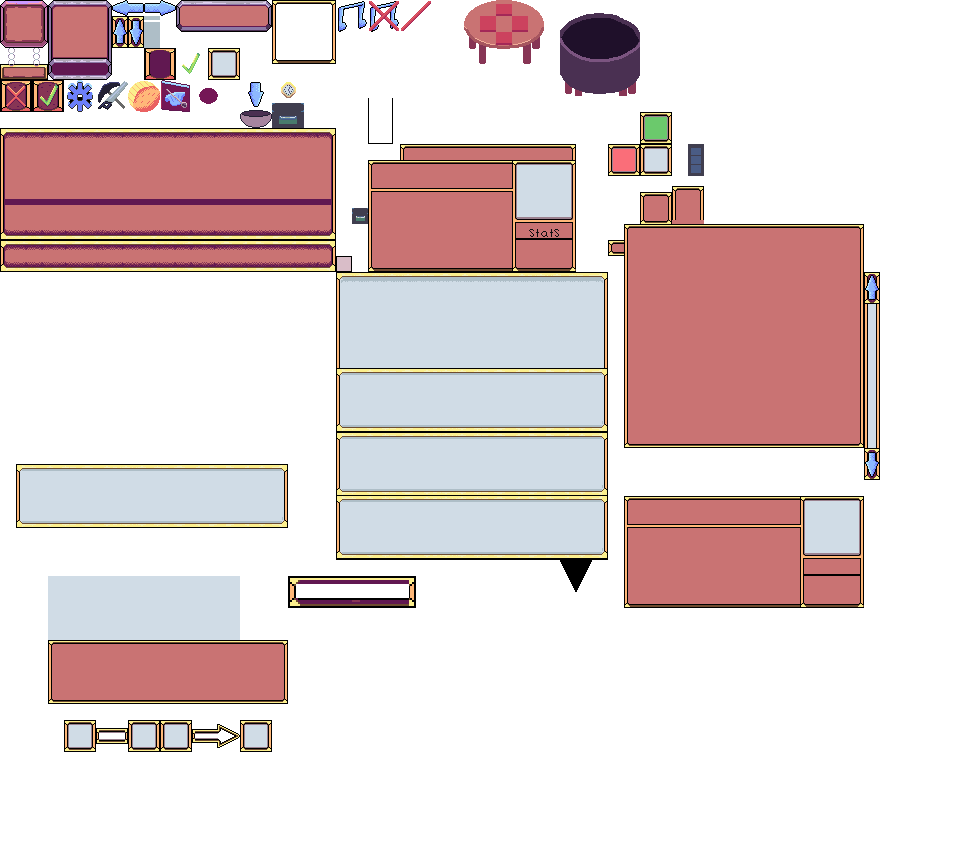
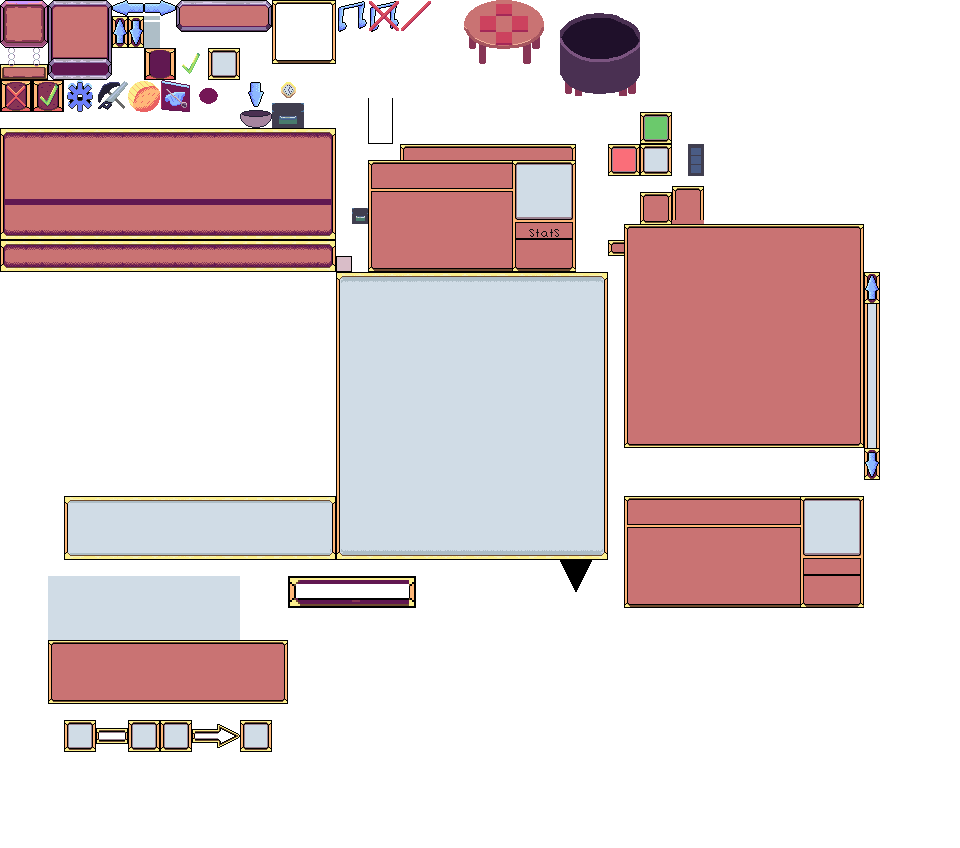
workin on dialogue

Changed region(s): [[0.0, 0.5212, 0.625, 0.6745], [0.3438, 0.4906, 0.6562, 0.5212], [0.3438, 0.4292, 0.625, 0.4599]]

diff --git a/UIEngine/Classes/TextStuff/TalkingWindow.cs b/UIEngine/Classes/TextStuff/TalkingWindow.cs
@@ -15,12 +15,13 @@ using System.Collections.Generic;
 using System.Text;
 using TextEngine;
 using TextEngine.Classes;
+using UIEngine.Classes.Components;
 using static DataModels.Enums;
 using static Globals.Classes.Settings;
 
 namespace UIEngine.Classes.TextStuff
 {
-    public class TalkingWindow : InterfaceSection
+    internal class TalkingWindow : MenuSection
     {
         private Rectangle _backgroundSourceRectangle = new Rectangle(336, 272, 272, 288);
         private Sprite BackdropSprite { get; set; }
@@ -32,24 +33,34 @@ namespace UIEngine.Classes.TextStuff
 
         private Vector2 _scale = new Vector2(2f, 2f);
 
-        internal List<DialogueInterfaceOptionWindow> OptionWindows { get; set; }
+        private StackPanel _stackPanel;
+
+        private Dialogue _curerentDialogue;
+
+        internal List<TalkingOptionPanel> OptionWindows { get; set; }
         public TalkingWindow(InterfaceSection interfaceSection, GraphicsDevice graphicsDevice, ContentManager content, Vector2? position, float layerDepth) :
            base(interfaceSection, graphicsDevice, content, position, layerDepth)
+        {
+            RegisterCommands();
+
+        }
+        public override void LoadContent()
         {
             Position = RectangleHelper.PlaceTopRightScreen(RectangleHelper.RectangleToScale(_backgroundSourceRectangle, _scale));
             Position = new Vector2(Position.X - Settings.Gutter, Position.Y + Settings.Gutter);
 
             BackdropSprite = SpriteFactory.CreateUISprite(Position, _backgroundSourceRectangle,
-                UI.ButtonTexture, GetLayeringDepth(UILayeringDepths.Back),scale :_scale);
-            TextBuilder = new TextBuilder(TextFactory.CreateUIText("Dialogue Test", GetLayeringDepth(UILayeringDepths.Front),.5f),
+                UI.ButtonTexture, GetLayeringDepth(UILayeringDepths.Back), scale: _scale);
+            TextBuilder = new TextBuilder(TextFactory.CreateUIText("Dialogue Test", GetLayeringDepth(UILayeringDepths.Front), .5f),
                 .05f);
             Deactivate();
 
 
             TotalBounds = BackdropSprite.HitBox;
-            RegisterCommands();
-        }
 
+            
+            base.LoadContent();
+        }
         public void RegisterCommands()
         {
             CommandConsole.RegisterCommand("talk", "displays given text as speech", AddSpeechCommand);
@@ -63,7 +74,7 @@ namespace UIEngine.Classes.TextStuff
                 totalString += " ";
                 totalString += arg;
             }
-            LoadNewConversation(totalString);
+          //  LoadNewConversation(totalString);
         }
 
         public override void Update(GameTime gameTime)
@@ -113,10 +124,25 @@ namespace UIEngine.Classes.TextStuff
         }
         public void LoadNewConversation(Dialogue dialogue)
         {
+
+            _curerentDialogue = dialogue;
             TextBuilder.ClearText();
-            TextBuilder.SetText(TextFactory.CreateUIText(dialogue.,  GetLayeringDepth(UILayeringDepths.Front), scale: 1f), BackdropSprite.HitBox.Width, false);
+            TextBuilder.SetText(TextFactory.CreateUIText(dialogue.DialogueText,  GetLayeringDepth(UILayeringDepths.Front), scale: 1f), BackdropSprite.HitBox.Width, false);
             Activate();
 
+            if (ChildSections.Contains(_stackPanel))
+                ChildSections.Remove(_stackPanel);
+
+            _stackPanel = new StackPanel(this, graphics, content, Position, GetLayeringDepth(UILayeringDepths.Medium));
+
+            foreach(var option in dialogue.Options)
+            {
+                StackRow stackRow = new StackRow((int)((float)_backgroundSourceRectangle.Width * _scale.X));
+                TalkingOptionPanel window = new TalkingOptionPanel(_stackPanel, graphics, content, Position, GetLayeringDepth(UILayeringDepths.Medium));
+                window.LoadNewOption(option.Value);
+                stackRow.AddItem(window, StackOrientation.Left);
+                _stackPanel.Add(stackRow);
+            }
             UI.DeactivateAllCurrentSectionsExcept(new List<InterfaceSection>() { this, UI.ClockBar });
         }
 

diff --git a/UIEngine/Classes/UI.cs b/UIEngine/Classes/UI.cs
@@ -31,6 +31,7 @@ using Globals.Classes.Time;
 using TextEngine;
 using ItemEngine.Classes.StorageStuff;
 using UIEngine.Classes.StatusStuff;
+using DataModels.DialogueStuff;
 
 namespace UIEngine.Classes
 {
@@ -81,7 +82,7 @@ namespace UIEngine.Classes
         private static List<InterfaceSection> s_standardSections { get; set; }
         private static List<InterfaceSection> s_mainMenuSections { get; set; }
 
-        public static TalkingWindow TalkingWindow { get; set; }
+        private static TalkingWindow _talkingWindow { get; set; }
 
         internal static SettingsMenu SettingsMenu { get; set; }
         internal static ToolBar ToolBar { get; set; }
@@ -125,12 +126,12 @@ namespace UIEngine.Classes
             EscMenu = new EscMenu(null, graphics, content, null, GetLayeringDepth(UILayeringDepths.Medium));
             RecipeBook = new RecipeBook(null, graphics, content, null, GetLayeringDepth(UILayeringDepths.High));
 
-            TalkingWindow = new TalkingWindow(null, graphics, content, null, GetLayeringDepth(UILayeringDepths.High));
+            _talkingWindow = new TalkingWindow(null, graphics, content, null, GetLayeringDepth(UILayeringDepths.High));
             SettingsMenu = new SettingsMenu(null, graphics, content, null, GetLayeringDepth(UILayeringDepths.Front));
             Curtain = new Curtain(null, graphics, content, null, GetLayeringDepth(UILayeringDepths.Front));
             StorageDisplayHandler = new StorageDisplayHandler(null, graphics, content, null, GetLayeringDepth(UILayeringDepths.High));
             
-            s_standardSections = new List<InterfaceSection>() { ToolBar, ClockBar,StatusPanel, TalkingWindow,
+            s_standardSections = new List<InterfaceSection>() { ToolBar, ClockBar,StatusPanel, _talkingWindow,
                 EscMenu, RecipeBook, StorageDisplayHandler };
 
             Cursor = new Cursor();
@@ -394,5 +395,12 @@ namespace UIEngine.Classes
 
             }));
         }
+
+
+        public static void LoadNewConversation(Dialogue dialogue) => _talkingWindow.LoadNewConversation(dialogue);
+        public static Direction TalkingDirection { get => _talkingWindow.DirectionPlayerShouldFace; set => _talkingWindow.DirectionPlayerShouldFace = value; }
+
+        public static bool IsTalkingWindowActive => _talkingWindow.IsActive;
+        public static bool WasTalkingWindowJustActivated => _talkingWindow.WasJustActivated;
     }
 }

diff --git a/UIEngine/Classes/TextStuff/TalkingOptionPanel.cs b/UIEngine/Classes/TextStuff/TalkingOptionPanel.cs
@@ -1,0 +1,63 @@
+using DataModels.DialogueStuff;
+using Globals.Classes.Helpers;
+using Microsoft.Xna.Framework;
+using Microsoft.Xna.Framework.Content;
+using Microsoft.Xna.Framework.Graphics;
+using SpriteEngine.Classes;
+using System;
+using System.Collections.Generic;
+using System.Linq;
+using System.Text;
+using System.Threading.Tasks;
+using TextEngine;
+using TextEngine.Classes;
+
+namespace UIEngine.Classes.TextStuff
+{
+    internal class TalkingOptionPanel : InterfaceSection
+    {
+        public DialogueOption DialogueOption { get; set; }
+
+        private Rectangle _sourceRectangle = new Rectangle(64, 496, 272, 64);
+
+        private Text _dialogueText;
+
+        private Sprite BackgroundSprite;
+
+        private Vector2 _scale = new Vector2(2f, 2f);
+        public TalkingOptionPanel(InterfaceSection interfaceSection, GraphicsDevice graphicsDevice,
+            ContentManager content, Vector2? position, float layerDepth) : base(interfaceSection, graphicsDevice, content, position, layerDepth)
+        {
+        }
+
+
+        public void LoadNewOption( DialogueOption newOption)
+        {
+            DialogueOption = newOption;
+            _dialogueText = TextFactory.CreateUIText(DialogueOption.DialogueText,GetLayeringDepth(SpriteEngine.Classes.UILayeringDepths.Medium));
+            LoadContent();
+        }
+        public override void LoadContent()
+        {
+            BackgroundSprite = SpriteFactory.CreateUISprite(Position, _sourceRectangle, UI.ButtonTexture, GetLayeringDepth(UILayeringDepths.Low),scale: _scale);
+            TotalBounds = RectangleHelper.RectFromPosition(Position, _sourceRectangle.Width * (int)_scale.X, _sourceRectangle.Height * (int)_scale.Y);
+            base.LoadContent();
+        }
+
+        public override void Update(GameTime gameTime)
+        {
+            base.Update(gameTime);
+
+            BackgroundSprite.Update(gameTime, Position);
+            _dialogueText.Update(gameTime, Position);
+            
+        }
+
+        public override void Draw(SpriteBatch spriteBatch)
+        {
+            base.Draw(spriteBatch);
+            BackgroundSprite.Draw(spriteBatch);
+            _dialogueText.Draw(spriteBatch, true);
+        }
+    }
+}

diff --git a/EntityEngine/Classes/CharacterStuff/Character.cs b/EntityEngine/Classes/CharacterStuff/Character.cs
@@ -60,7 +60,7 @@ namespace EntityEngine.Classes.CharacterStuff
             }
             base.Update(gameTime);
              
-            if (!UI.TalkingWindow.IsActive)
+            if (!UI.IsTalkingWindowActive)
             {
                 if(this.GetType() != typeof(Player))
                 Resume();
@@ -85,9 +85,9 @@ namespace EntityEngine.Classes.CharacterStuff
         public void OnCharacterClicked(Schedule schedule)
         {
             
-            UI.TalkingWindow.LoadNewConversation(DialogueInterpreter.GetSpeech(schedule.Dialogue));
+            UI.LoadNewConversation(schedule.Dialogue);
             FaceTowardsOtherEntity(Shared.PlayerPosition);
-            UI.TalkingWindow.DirectionPlayerShouldFace = Vector2Helper.GetOppositeDirection(DirectionMoving);
+            UI.TalkingDirection = Vector2Helper.GetOppositeDirection(DirectionMoving);
         }
 
         public override void ClickInteraction()

diff --git a/EntityEngine/Classes/CharacterStuff/DialogueStuff/DialogueInterpreter.cs b/EntityEngine/Classes/CharacterStuff/DialogueStuff/DialogueInterpreter.cs
@@ -7,16 +7,16 @@ namespace EntityEngine.Classes.CharacterStuff.DialogueStuff
 {
     public static class DialogueInterpreter
     {
-        public static string GetSpeech(Dialogue dialogue)
-        {
-            string response = "unable to find text";
+        //public static string GetSpeech(Dialogue dialogue)
+        //{
+        //    string response = "unable to find text";
 
-            if(!dialogue.Options.TryGetValue("default", out response))
-            {
-                return "No default value!";
-            }
+        //    if(!dialogue.Options.TryGetValue("default", out response))
+        //    {
+        //        return "No default value!";
+        //    }
 
-            return response;
-        }
+        //    return response;
+        //}
     }
 }

diff --git a/EntityEngine/Classes/PlayerStuff/Player.cs b/EntityEngine/Classes/PlayerStuff/Player.cs
@@ -226,13 +226,13 @@ namespace EntityEngine.Classes.PlayerStuff
             _lumenHandler.Illuminated = LightsTouching.Count > 0;
             _lumenHandler.HandleLumens(gameTime);
 
-            if (UI.TalkingWindow.IsActive)
+            if (UI.IsTalkingWindowActive)
             {
                 //EntityAnimator.
 
                 Halt(true);
-                DirectionMoving = UI.TalkingWindow.DirectionPlayerShouldFace;
-                if (UI.TalkingWindow.WasJustActivated)
+                DirectionMoving = UI.TalkingDirection;
+                if (UI.WasTalkingWindowJustActivated)
                     Animator.ChangeDirection(DirectionMoving, Position);
             }
             //else

diff --git a/DataModels/DialogueStuff/Dialogue.cs b/DataModels/DialogueStuff/Dialogue.cs
@@ -6,6 +6,9 @@ namespace DataModels.DialogueStuff
 {
     public class Dialogue
     {
+        public string Name { get; set; }
+        public string DialogueText { get; set; }
+        public string FlavorText { get; set; }
         public Dictionary<string, DialogueOption> Options {get;set;}
     }
 }
